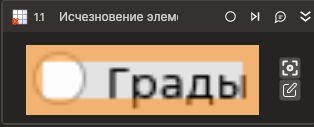
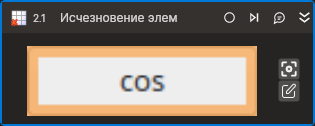
Updated doc desktop-elementvanish

diff --git a/studio/linux/activities/basic/desktop/desktop-elementvanish.md b/studio/linux/activities/basic/desktop/desktop-elementvanish.md
@@ -9,30 +9,32 @@
 Символ `*` в названии свойства указывает на обязательность заполнения. Описание общих свойств см. в разделе [Свойства элемента](https://docs.primo-rpa.ru/primo-rpa/primo-studio/process/elements#svoistva-elementa).
 
 1. **Шаблон поиска\*** *[String]* - Шаблон поиска элемента управления  
-2. **Таймаут\*** *[Int32]* - Предельное время ожидания завершения процесса (мс) 
+2. **Таймаут\*** *[Int32]* - Предельное время ожидания завершения процесса (мс)
 
 ## Только код  
 Пример использования элемента в процессе с типом **Только код** (Pure code):
+> - Для работы с примером необходимо установить приложение **mate-calc**.
+> - Для демонстрации `Исчезновения элемента` необходимо переключиться из режима калькулятора `Расширенный` в режим `Простой` во время запуска примера (конопка `cos` должна исчезнуть).
 
 {% tabs %}
 {% tab title="C#" %}
 ```csharp
-LTools.Desktop.DesktopApp app = LTools.Desktop.DesktopApp.Init(wf, null, "Test_*", 20000, true, LTools.Desktop.Model.DesktopTypes.UIAUTOMATION);
-app.WaitElementVanish("{\"Name\":\"Vanish Label\",\"AutomationID\":\"\",\"ClassName\":\"TextBlock\",\"AUIProperties\":[],\"TextSearchMode\":0,\"IsRoot\":false,\"IsQuickSearch\":false}", 2000);
+LTools.Desktop.DesktopApp app = LTools.Desktop.DesktopApp.Init(wf, null, "Калькулятор", 20000, true, LTools.Desktop.Model.DesktopTypes.UIAUTOMATION);
+app.WaitElementVanish("{\"WinName\":null,\"WinPath\":null,\"WinId\":null,\"AppName\":\"mate-calc\",\"TextSearchMode\":0,\"Items\":[{\"Name\":\"cosine\",\"Role\":\"push button\",\"Items\":[]}]}", 20000);
 ```
 {% endtab %}
 
 {% tab title="Python" %}
 ```python
-app = LTools.Desktop.DesktopApp.Init(wf, None, "Test_*", 20000, True, LTools.Desktop.Model.DesktopTypes.UIAUTOMATION)
-app.WaitElementVanish("{\"Name\":\"Vanish Label\",\"AutomationID\":\"\",\"ClassName\":\"TextBlock\",\"AUIProperties\":[],\"TextSearchMode\":0,\"IsRoot\":false,\"IsQuickSearch\":false}", 2000)
+app = LTools.Desktop.DesktopApp.Init(wf, None, "Калькулятор", 20000, True, LTools.Desktop.Model.DesktopTypes.UIAUTOMATION)
+app.WaitElementVanish("{\"WinName\":null,\"WinPath\":null,\"WinId\":null,\"AppName\":\"mate-calc\",\"TextSearchMode\":0,\"Items\":[{\"Name\":\"cosine\",\"Role\":\"push button\",\"Items\":[]}]}", 20000)
 ```
 {% endtab %}
 
 {% tab title="JavaScript" %}
 ```javascript
-var app = _lib.LTools.Desktop.DesktopApp.Init(wf, null, "Test_*", 20000, true, _lib.LTools.Desktop.Model.DesktopTypes.UIAUTOMATION);
-app.WaitElementVanish("{\"Name\":\"Vanish Label\",\"AutomationID\":\"\",\"ClassName\":\"TextBlock\",\"AUIProperties\":[],\"TextSearchMode\":0,\"IsRoot\":false,\"IsQuickSearch\":false}", 2000);
+var app = _lib.LTools.Desktop.DesktopApp.Init(wf, null, "Калькулятор", 20000, true, _lib.LTools.Desktop.Model.DesktopTypes.UIAUTOMATION);
+app.WaitElementVanish("{\"WinName\":null,\"WinPath\":null,\"WinId\":null,\"AppName\":\"mate-calc\",\"TextSearchMode\":0,\"Items\":[{\"Name\":\"cosine\",\"Role\":\"push button\",\"Items\":[]}]}", 20000);
 ```
 {% endtab %}
 {% endtabs %}
